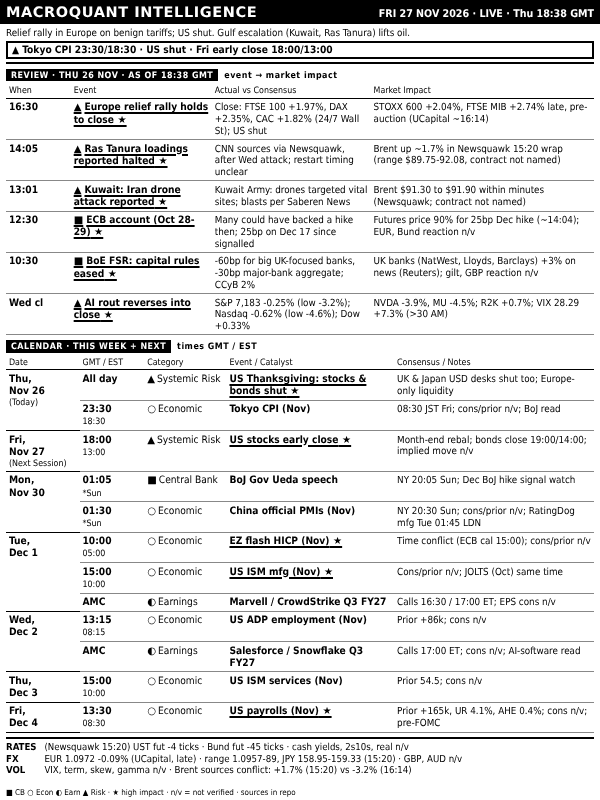
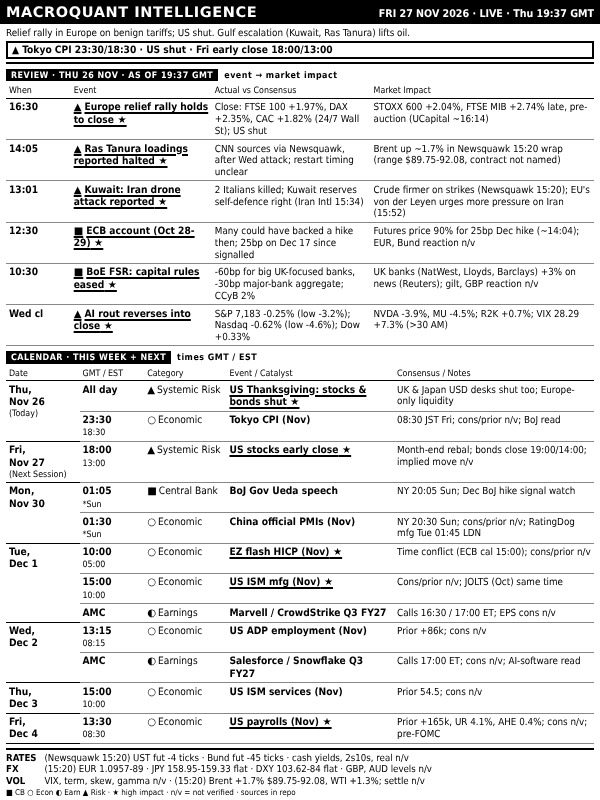
dashboard: FRI 27 NOV 2026 LIVE 19:37
Claude-Session: https://claude.ai/code/session_016SJqa4cXEa28LHJznnU65p

Changed region(s): [[0.0, 0.2188, 0.99, 1.0], [0.0, 0.25, 0.09, 0.3438], [0.0, 0.75, 0.06, 0.8125]]

diff --git a/out/dashboard.html b/out/dashboard.html
@@ -38,12 +38,12 @@ table.bd{border-collapse:collapse;width:100%;table-layout:fixed;margin-top:1px}
 </style></head><body>
 <div id="root">
  <div class="hdr"><span class="t">MACROQUANT INTELLIGENCE</span>
-  <span class="r">FRI 27 NOV 2026 · LIVE · Thu 18:38 GMT</span></div>
+  <span class="r">FRI 27 NOV 2026 · LIVE · Thu 19:37 GMT</span></div>
  <div class="ban"><div class="rg">Relief rally in Europe on benign tariffs; US shut. Gulf escalation (Kuwait, Ras Tanura) lifts oil.</div><div class="al">▲ Tokyo CPI 23:30/18:30 · US shut · Fri early close 18:00/13:00</div></div>
- <div class="sl"><span>REVIEW · THU 26 NOV · AS OF 18:38 GMT</span>event → market impact</div><table class="bd rv"><colgroup><col style="width:11%"><col style="width:24%"><col style="width:27%"><col></colgroup><tr><th>When</th><th>Event</th><th>Actual vs Consensus</th><th>Market Impact</th></tr><tr class="h"><td class="tm"><b>16:30</b></td><td class="ev"><i>▲</i>Europe relief rally holds to close</td><td class="ac">Close: FTSE 100 +1.97%, DAX +2.35%, CAC +1.82% (24/7 Wall St); US shut</td><td class="nt">STOXX 600 +2.04%, FTSE MIB +2.74% late, pre-auction (UCapital ~16:14)</td></tr><tr class="h"><td class="tm"><b>14:05</b></td><td class="ev"><i>▲</i>Ras Tanura loadings reported halted</td><td class="ac">CNN sources via Newsquawk, after Wed attack; restart timing unclear</td><td class="nt">Brent up ~1.7% in Newsquawk 15:20 wrap (range $89.75-92.08, contract not named)</td></tr><tr class="h"><td class="tm"><b>13:01</b></td><td class="ev"><i>▲</i>Kuwait: Iran drone attack reported</td><td class="ac">Kuwait Army: drones targeted vital sites; blasts per Saberen News</td><td class="nt">Brent $91.30 to $91.90 within minutes (Newsquawk; contract not named)</td></tr><tr class="h"><td class="tm"><b>12:30</b></td><td class="ev"><i>■</i>ECB account (Oct 28-29)</td><td class="ac">Many could have backed a hike then; 25bp on Dec 17 since signalled</td><td class="nt">Futures price 90% for 25bp Dec hike (~14:04); EUR, Bund reaction n/v</td></tr><tr class="h"><td class="tm"><b>10:30</b></td><td class="ev"><i>■</i>BoE FSR: capital rules eased</td><td class="ac">-60bp for big UK-focused banks, -30bp major-bank aggregate; CCyB 2%</td><td class="nt">UK banks (NatWest, Lloyds, Barclays) +3% on news (Reuters); gilt, GBP reaction n/v</td></tr><tr class="h"><td class="tm"><b>Wed cl</b></td><td class="ev"><i>▲</i>AI rout reverses into close</td><td class="ac">S&amp;P 7,183 -0.25% (low -3.2%); Nasdaq -0.62% (low -4.6%); Dow +0.33%</td><td class="nt">NVDA -3.9%, MU -4.5%; R2K +0.7%; VIX 28.29 +7.3% (&gt;30 AM)</td></tr></table>
+ <div class="sl"><span>REVIEW · THU 26 NOV · AS OF 19:37 GMT</span>event → market impact</div><table class="bd rv"><colgroup><col style="width:11%"><col style="width:24%"><col style="width:27%"><col></colgroup><tr><th>When</th><th>Event</th><th>Actual vs Consensus</th><th>Market Impact</th></tr><tr class="h"><td class="tm"><b>16:30</b></td><td class="ev"><i>▲</i>Europe relief rally holds to close</td><td class="ac">Close: FTSE 100 +1.97%, DAX +2.35%, CAC +1.82% (24/7 Wall St); US shut</td><td class="nt">STOXX 600 +2.04%, FTSE MIB +2.74% late, pre-auction (UCapital ~16:14)</td></tr><tr class="h"><td class="tm"><b>14:05</b></td><td class="ev"><i>▲</i>Ras Tanura loadings reported halted</td><td class="ac">CNN sources via Newsquawk, after Wed attack; restart timing unclear</td><td class="nt">Brent up ~1.7% in Newsquawk 15:20 wrap (range $89.75-92.08, contract not named)</td></tr><tr class="h"><td class="tm"><b>13:01</b></td><td class="ev"><i>▲</i>Kuwait: Iran drone attack reported</td><td class="ac">2 Italians killed; Kuwait reserves self-defence right (Iran Intl 15:34)</td><td class="nt">Crude firmer on strikes (Newsquawk 15:20); EU's von der Leyen urges more pressure on Iran (15:52)</td></tr><tr class="h"><td class="tm"><b>12:30</b></td><td class="ev"><i>■</i>ECB account (Oct 28-29)</td><td class="ac">Many could have backed a hike then; 25bp on Dec 17 since signalled</td><td class="nt">Futures price 90% for 25bp Dec hike (~14:04); EUR, Bund reaction n/v</td></tr><tr class="h"><td class="tm"><b>10:30</b></td><td class="ev"><i>■</i>BoE FSR: capital rules eased</td><td class="ac">-60bp for big UK-focused banks, -30bp major-bank aggregate; CCyB 2%</td><td class="nt">UK banks (NatWest, Lloyds, Barclays) +3% on news (Reuters); gilt, GBP reaction n/v</td></tr><tr class="h"><td class="tm"><b>Wed cl</b></td><td class="ev"><i>▲</i>AI rout reverses into close</td><td class="ac">S&amp;P 7,183 -0.25% (low -3.2%); Nasdaq -0.62% (low -4.6%); Dow +0.33%</td><td class="nt">NVDA -3.9%, MU -4.5%; R2K +0.7%; VIX 28.29 +7.3% (&gt;30 AM)</td></tr></table>
  <div class="sl"><span>CALENDAR · THIS WEEK + NEXT</span>times GMT / EST</div>
  <table class="bd"><colgroup><col style="width:12.5%"><col style="width:11%"><col style="width:14%"><col style="width:28.5%"><col></colgroup><tr><th>Date</th><th>GMT / EST</th><th>Category</th><th>Event / Catalyst</th><th>Consensus / Notes</th></tr><tr class="g0 h"><td class="dt" rowspan="2">Thu,<br>Nov&nbsp;26<span class="tg">(Today)</span></td><td class="tm"><b>All day</b></td><td class="ct"><i>▲</i>Systemic Risk</td><td class="ev">US Thanksgiving: stocks &amp; bonds shut</td><td class="nt">UK &amp; Japan USD desks shut too; Europe-only liquidity</td></tr><tr class=""><td class="tm"><b>23:30</b><span>18:30</span></td><td class="ct"><i>○</i>Economic</td><td class="ev">Tokyo CPI (Nov)</td><td class="nt">08:30 JST Fri; cons/prior n/v; BoJ read</td></tr><tr class="g0 h"><td class="dt" rowspan="1">Fri,<br>Nov&nbsp;27<span class="tg">(Next Session)</span></td><td class="tm"><b>18:00</b><span>13:00</span></td><td class="ct"><i>▲</i>Systemic Risk</td><td class="ev">US stocks early close</td><td class="nt">Month-end rebal; bonds close 19:00/14:00; implied move n/v</td></tr><tr class="g0"><td class="dt" rowspan="2">Mon,<br>Nov&nbsp;30</td><td class="tm"><b>01:05</b><span>*Sun</span></td><td class="ct"><i>■</i>Central Bank</td><td class="ev">BoJ Gov Ueda speech</td><td class="nt">NY 20:05 Sun; Dec BoJ hike signal watch</td></tr><tr class=""><td class="tm"><b>01:30</b><span>*Sun</span></td><td class="ct"><i>○</i>Economic</td><td class="ev">China official PMIs (Nov)</td><td class="nt">NY 20:30 Sun; cons/prior n/v; RatingDog mfg Tue 01:45 LDN</td></tr><tr class="g0 h"><td class="dt" rowspan="3">Tue,<br>Dec&nbsp;1</td><td class="tm"><b>10:00</b><span>05:00</span></td><td class="ct"><i>○</i>Economic</td><td class="ev">EZ flash HICP (Nov)</td><td class="nt">Time conflict (ECB cal 15:00); cons/prior n/v</td></tr><tr class="h"><td class="tm"><b>15:00</b><span>10:00</span></td><td class="ct"><i>○</i>Economic</td><td class="ev">US ISM mfg (Nov)</td><td class="nt">Cons/prior n/v; JOLTS (Oct) same time</td></tr><tr class=""><td class="tm"><b>AMC</b></td><td class="ct"><i>◐</i>Earnings</td><td class="ev">Marvell / CrowdStrike Q3 FY27</td><td class="nt">Calls 16:30 / 17:00 ET; EPS cons n/v</td></tr><tr class="g0"><td class="dt" rowspan="2">Wed,<br>Dec&nbsp;2</td><td class="tm"><b>13:15</b><span>08:15</span></td><td class="ct"><i>○</i>Economic</td><td class="ev">US ADP employment (Nov)</td><td class="nt">Prior +86k; cons n/v</td></tr><tr class=""><td class="tm"><b>AMC</b></td><td class="ct"><i>◐</i>Earnings</td><td class="ev">Salesforce / Snowflake Q3 FY27</td><td class="nt">Calls 17:00 ET; cons n/v; AI-software read</td></tr><tr class="g0"><td class="dt" rowspan="1">Thu,<br>Dec&nbsp;3</td><td class="tm"><b>15:00</b><span>10:00</span></td><td class="ct"><i>○</i>Economic</td><td class="ev">US ISM services (Nov)</td><td class="nt">Prior 54.5; cons n/v</td></tr><tr class="g0 h"><td class="dt" rowspan="1">Fri,<br>Dec&nbsp;4</td><td class="tm"><b>13:30</b><span>08:30</span></td><td class="ct"><i>○</i>Economic</td><td class="ev">US payrolls (Nov)</td><td class="nt">Prior +165k, UR 4.1%, AHE 0.4%; cons n/v; pre-FOMC</td></tr></table>
- <div class="lv"><div><b>RATES</b>(Newsquawk 15:20) UST fut -4 ticks · Bund fut -45 ticks · cash yields, 2s10s, real n/v</div><div><b>FX</b>EUR 1.0972 -0.09% (UCapital, late) · range 1.0957-89, JPY 158.95-159.33 (15:20) · GBP, AUD n/v</div><div><b>VOL</b>VIX, term, skew, gamma n/v · Brent sources conflict: +1.7% (15:20) vs -3.2% (16:14)</div></div>
+ <div class="lv"><div><b>RATES</b>(Newsquawk 15:20) UST fut -4 ticks · Bund fut -45 ticks · cash yields, 2s10s, real n/v</div><div><b>FX</b>(15:20) EUR 1.0957-89 · JPY 158.95-159.33 flat · DXY 103.62-84 flat · GBP, AUD levels n/v</div><div><b>VOL</b>VIX, term, skew, gamma n/v · (15:20) Brent +1.7% $89.75-92.08, WTI +1.3%; settle n/v</div></div>
 </div>
 <div class="foot">■ CB ○ Econ ◐ Earn ▲ Risk · ★ high impact · n/v = not verified · sources in repo</div>
 </body></html>
